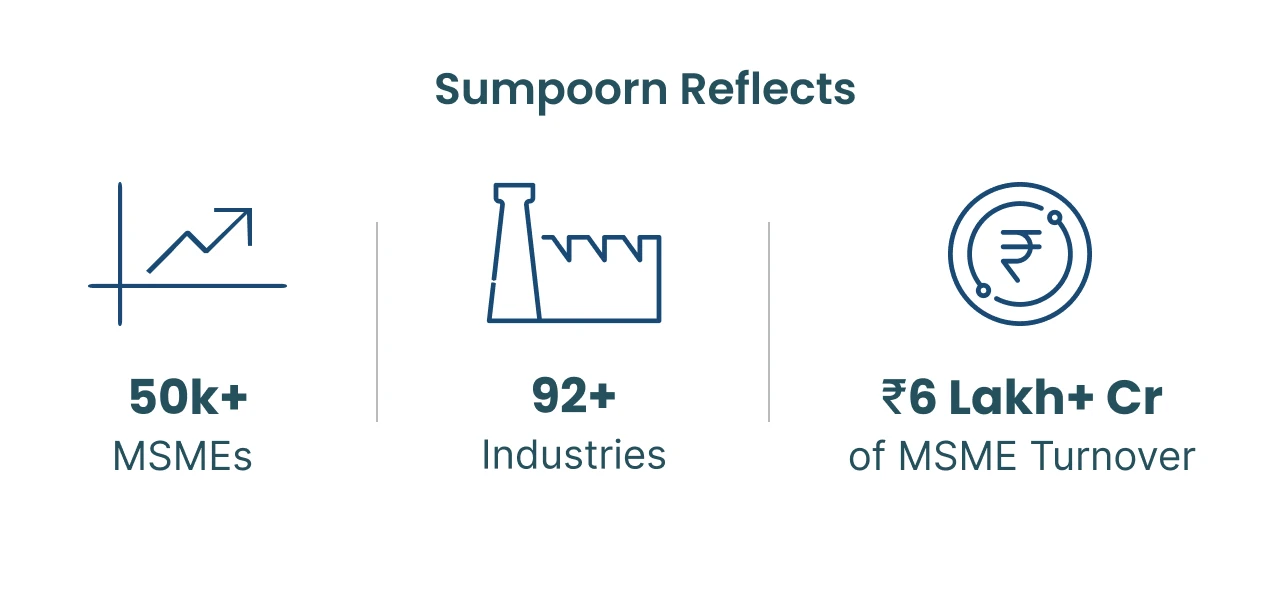
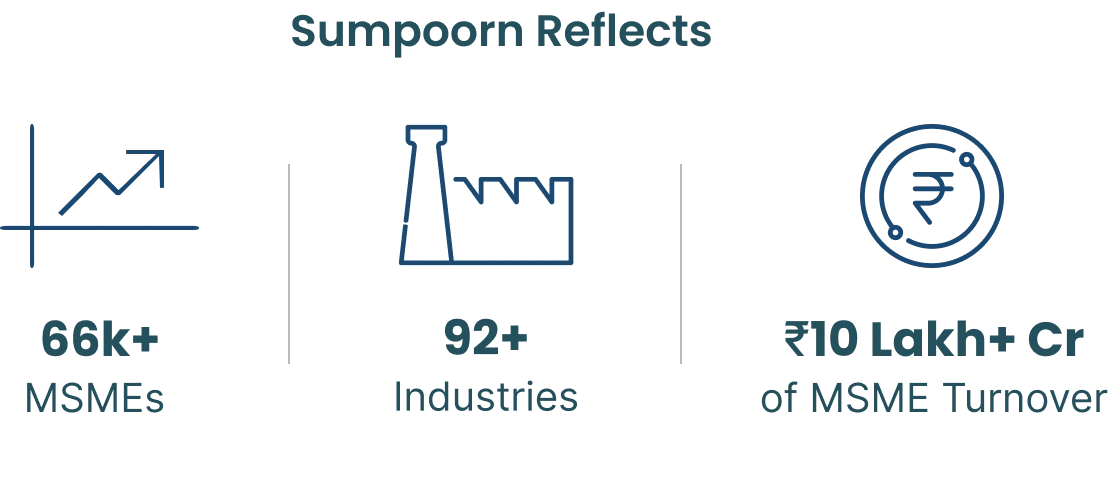
JSWD-381 Monthly Activity March

diff --git a/src/styles.scss b/src/styles.scss
@@ -348,18 +348,20 @@ a {
 }
 .sm-primary-button {
   border: none;
+  display: flex;
   justify-content: center;
   align-items: center;
   background: #25bb61;
   color: $app-white;
-  padding: 6px 35px;
+  padding: 11px 35px;
   border-radius: 8px;
   font: 500 $font-size-16px "Poppins", sans-serif;
-}
-.sm-primary-button[disabled],
-.sm-primary-button.disabled {
-  opacity: 0.7;
-  pointer-events: none;
+  &.disabled,
+  &[disabled] {
+    cursor: not-allowed;
+    opacity: 0.7;
+    pointer-events: none;
+  }
 }
 .table-blue {
   color: #24c0e2;
@@ -505,6 +507,7 @@ a {
   }
 }
 // Header Styles End
+
 // Home Page Styles Start
 .app_home {
   background-color: #d1f2e8;
@@ -577,6 +580,7 @@ a {
         0px 89px 36px 0px rgba(0, 0, 0, 0.01),
         0px 139px 39px 0px rgba(0, 0, 0, 0);
       margin: 0.5rem 0 1.25rem;
+      padding: 2rem;
       @media only screen and (min-width: 992px) {
         border-top-right-radius: 0.6rem;
         border-bottom-right-radius: 0.6rem;
@@ -872,64 +876,68 @@ a {
       }
     }
   }
-  .app_home_marquee {
-    background: $app-white;
-    width: $marquee-width;
-    overflow: hidden;
-    position: relative;
-    padding: 3.5rem 0;
-    @keyframes marqueeMobile {
-      0% {
-        transform: translateX(0);
-      }
-      100% {
-        transform: translateX(
-          calc(-1 * $marquee-element-width-sm * $marquee-elements)
-        );
-      }
+}
+// Home Page Styles End
+
+// Marquee Styles Home Start
+.app_home_marquee {
+  background: $app-white;
+  width: $marquee-width;
+  overflow: hidden;
+  position: relative;
+  padding: 3.5rem 0;
+  @keyframes marqueeMobile {
+    0% {
+      transform: translateX(0);
     }
-    @keyframes marqueeWeb {
-      0% {
-        transform: translateX(0);
-      }
-      100% {
-        transform: translateX(
-          calc(-1 * $marquee-element-width-md * $marquee-elements)
-        );
-      }
+    100% {
+      transform: translateX(
+        calc(-1 * $marquee-element-width-sm * $marquee-elements)
+      );
     }
-    .marquee-content-title {
-      color: #000;
-      font-size: $font-size-24px;
-      line-height: 120%;
+  }
+  @keyframes marqueeWeb {
+    0% {
+      transform: translateX(0);
     }
-    .marquee-content {
-      list-style: none;
-      height: 100%;
+    100% {
+      transform: translateX(
+        calc(-1 * $marquee-element-width-md * $marquee-elements)
+      );
+    }
+  }
+  .marquee-content-title {
+    color: #000;
+    font-size: $font-size-24px;
+    line-height: 120%;
+  }
+  .marquee-content {
+    list-style: none;
+    height: 100%;
+    display: flex;
+    align-items: center;
+    padding: 0;
+    margin-bottom: 0;
+    animation: marqueeMobile 15s linear infinite;
+    @media only screen and (min-width: 768px) {
+      animation: marqueeWeb 15s linear infinite;
+    }
+    li {
       display: flex;
+      flex-direction: column;
+      justify-content: space-between;
       align-items: center;
-      padding: 0;
-      margin-bottom: 0;
-      animation: marqueeMobile 15s linear infinite;
+      flex-shrink: 0;
+      width: $marquee-element-width-sm;
+      max-height: 100%;
       @media only screen and (min-width: 768px) {
-        animation: marqueeWeb 15s linear infinite;
-      }
-      li {
-        display: flex;
-        flex-direction: column;
-        justify-content: space-between;
-        align-items: center;
-        flex-shrink: 0;
-        width: $marquee-element-width-sm;
-        max-height: 100%;
-        @media only screen and (min-width: 768px) {
-          width: $marquee-element-width-md;
-        }
+        width: $marquee-element-width-md;
       }
     }
   }
 }
-// Home Page Styles End
+// Marquee Styles Home End
+
 // About Page Styles Start
 .app_about {
   padding-top: 8rem;
@@ -1578,6 +1586,7 @@ a {
   }
 }
 // Methodology Page Styles End
+
 // Index Page Styles Start Here
 @keyframes circleOne {
   0% {
@@ -1608,7 +1617,7 @@ a {
 .app_index {
   padding-top: 7.5rem;
   @media only screen and (min-width: 768px) {
-    padding-top: 11rem;
+    padding-top: 12rem;
   }
   .app_index_chart_con {
     .nav-pills-static-text {
@@ -2138,11 +2147,11 @@ a {
 .app_contact {
   background-color: #f2f2f2;
   padding: 9rem 0 0;
-  @media only screen and (min-width: 768px) {
+  @media only screen and (min-width: 992px) {
     padding: 17rem 0 10.75rem;
   }
   .app_contact_left_content {
-    @media only screen and (max-width: 767px) {
+    @media only screen and (max-width: 991px) {
       padding: 0 2rem 4.5rem;
     }
     .app_contact_main_title {
@@ -2172,7 +2181,7 @@ a {
       flex-direction: column;
       padding: 3rem 2rem 4rem;
       background: $app-white;
-      @media only screen and (min-width: 768px) {
+      @media only screen and (min-width: 992px) {
         padding: 3rem;
         border-radius: 16px;
         box-shadow: 0px 22px 47px 0px rgba(0, 0, 0, 0.1),
@@ -2190,6 +2199,7 @@ a {
   }
 }
 // Contact Page Styles End
+
 // Institution Login Page Styles Start
 .app_institution {
   @media only screen and (min-width: 768px) {
@@ -2294,6 +2304,7 @@ a {
   }
 }
 // Institution Login Page Styles End
+
 // Media Kit Page Styles Start
 .app_mediakit {
   padding-top: 6rem;
@@ -2421,6 +2432,7 @@ a {
   }
 }
 // Media Kit Page Styles End
+
 // Newsroom Page Styles Start
 .app_newsroom {
   background: #f6f6f6;
@@ -2506,6 +2518,81 @@ a {
   }
 }
 // Newsroom Page Styles End
+
+// Partners Page Styles Start
+.app_partners {
+  padding-top: 8rem;
+  .app_contact {
+    padding-top: 4rem;
+    @media screen and (min-width: 992px) {
+      padding: 4rem 0;
+    }
+
+    .app_contact_left_content {
+      .nav-tabs {
+        background-color: #e3e3e3;
+        border-radius: 32px;
+        border: none;
+        display: inline-flex;
+        flex-wrap: unset;
+        .nav-link {
+          border-radius: 32px;
+          color: $app-black;
+          font: 600 $font-size-16px "Poppins", sans-serif;
+          padding: 13px 20px;
+          &.active {
+            background-color: #25bb61;
+            border-radius: 32px;
+            color: $app-white;
+          }
+        }
+      }
+      .tab-content {
+        ul {
+          li {
+            font: 600 $font-size-18px "Poppins", sans-serif;
+            line-height: 26.64px;
+            margin-bottom: 1.75rem;
+          }
+        }
+      }
+    }
+  }
+  .app_roadmap {
+    padding: 0;
+    .app_roadmap_banner_section {
+      padding: 4rem 0;
+      .app_partners_accordion {
+        background: $app-white;
+        border: 1px solid #8b8b8b;
+        box-shadow: 0px 1px 8px 0px rgba(0, 0, 0, 0.25);
+        padding: 1rem 1.5rem;
+        --bs-accordion-btn-focus-border-color: none;
+        --bs-accordion-btn-focus-box-shadow: none;
+        --bs-accordion-btn-icon: url("assets/icons/accordion-plus.svg");
+        --bs-accordion-btn-active-icon: url("assets/icons/accordion-minus.svg");
+        --bs-accordion-btn-icon-transform: rotate(0deg);
+        .accordion-item {
+          .accordion-header {
+            .accordion-button {
+              background-color: transparent;
+              color: #25505c;
+              font: 700 $font-size-20px "Poppins", sans-serif;
+              line-height: 28px;
+            }
+          }
+          .accordion-body {
+            font: 400 $font-size-16px "Poppins", sans-serif;
+            line-height: 28px;
+            text-align: left;
+          }
+        }
+      }
+    }
+  }
+}
+// Parnters Page Styles End
+
 // FAB Subscribe Styles
 .app_subscribe_fab_wrapper {
   position: fixed;
@@ -2529,6 +2616,7 @@ a {
     }
   }
 }
+
 // Modal Styles Start
 .app_generic_modal {
   max-width: 95vw !important;
@@ -2659,6 +2747,7 @@ a {
   }
 }
 // Modal Styles End
+
 // Footer Styles Start
 .app_footer {
   display: flex;
@@ -2714,6 +2803,7 @@ a {
   }
 }
 // Footer Styles End
+
 // Animation disable on mobile
 @media screen and (max-width: 767px) {
   [data-aos] {

diff --git a/src/app/contact/contact.component.html b/src/app/contact/contact.component.html
@@ -1,8 +1,8 @@
 <main class="app_contact">
     <div class="row gx-0 justify-content-center">
-        <div class="col-sm-12 col-md-10 col-xl-8">
+        <div class="col-sm-12 col-lg-10 col-xl-8">
             <div class="row gx-0 align-items-center">
-                <div class="col-sm-12 col-md-5">
+                <div class="col-sm-12 col-lg-5">
                     <div class="app_contact_left_content">
                         <p class="app_contact_main_title mb-4">Contact</p>
                         <p class="app_contact_sub_title my-5">Jocata</p>
@@ -31,7 +31,7 @@
                         </p>
                     </div>
                 </div>
-                <div class="col-sm-12 col-md-7">
+                <div class="col-sm-12 col-lg-7">
                     <div class="app_contact_cards">
                         <div class="app_contact_card_box">
                             <h4 class="app_contact_card_box_title mb-4">We'd love to hear from you</h4>
@@ -181,9 +181,9 @@
                                 </div>
 
                                 <div class="row mt-5">
-                                    <div class="col-md-6">
+                                    <div class="col-sm-12 col-lg-8 col-xl-9">
                                     </div>
-                                    <div class="col-md-6">
+                                    <div class="col-sm-12 col-lg-4 col-xl-3">
                                         <button class="sm-primary-button w-100" [disabled]="contactGroup.invalid"
                                             id="contactSubmitBtn" (click)="saveContact()">Submit</button>
                                     </div>

diff --git a/src/app/methodology/methodology.component.html b/src/app/methodology/methodology.component.html
@@ -4,7 +4,7 @@
             <p class="col-md-12">
                 <span><span class="fw-bold">Jocata Sumpoorn</span> is constructed using </span>
                 <span>consent-enabled and anonymised data of <span class="fw-600">more </span></span>
-                <span><span class="fw-600">than 50,000 MSMEs</span> seeking credit from financial </span>
+                <span><span class="fw-600">than 66,000 MSMEs</span> seeking credit from financial </span>
                 <span>institutions starting <span class="fw-600">from October 2019</span> to
                     date.</span>
             </p>

diff --git a/src/app/home/home.component.html b/src/app/home/home.component.html
@@ -230,12 +230,6 @@
       </div>
     </div>
   </div>
-  <!-- <div class="row gx-0" id="subscribeSection">
-    <div class="col-md-12 app_home_subscribe">
-      <p>For monthly Index updates</p>
-      <span class="app_secondary_btn" (click)="openDialog()">Subscribe</span>
-    </div>
-  </div> -->
   <div class="row gx-0 app_home_marquee">
     <div class="col-md-12">
       <span class="app_home_section_title mb-0">Our Partners</span>
